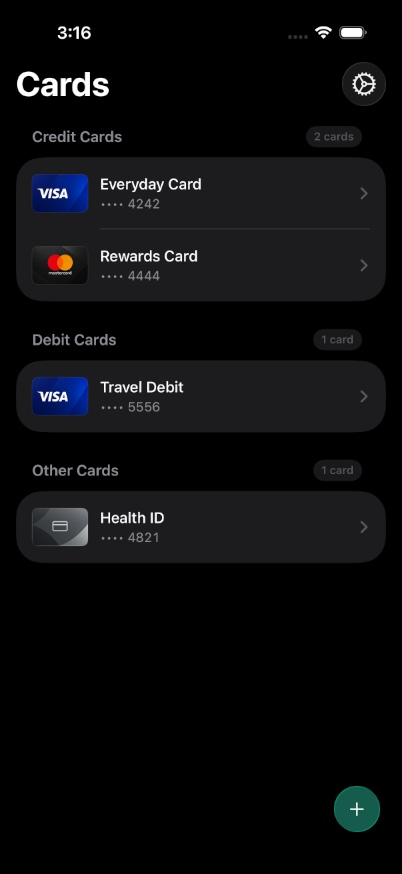
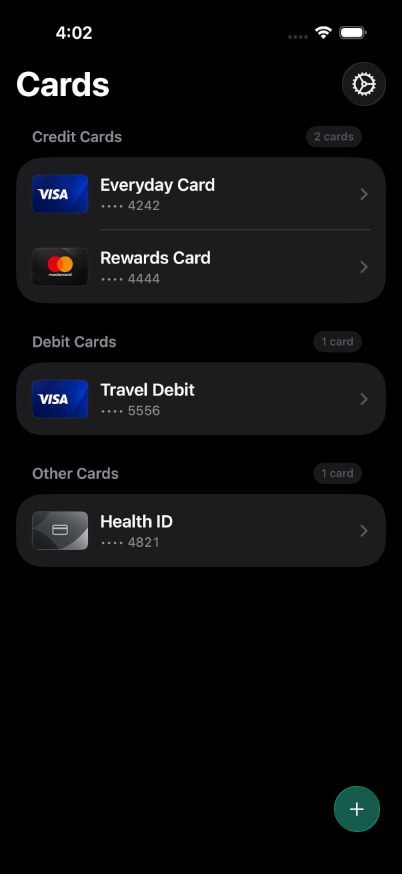
Strengthen saved card names

diff --git a/cards/Home/HomeView.swift b/cards/Home/HomeView.swift
@@ -295,7 +295,7 @@ struct HomeView: View {
 
 				VStack(alignment: .leading, spacing: 3) {
 					Text(card.description.isEmpty ? card.name : card.description)
-						.font(.subheadline.weight(.medium))
+						.font(.body.weight(.semibold))
 						.foregroundStyle(.primary)
 						.lineLimit(2)
 
